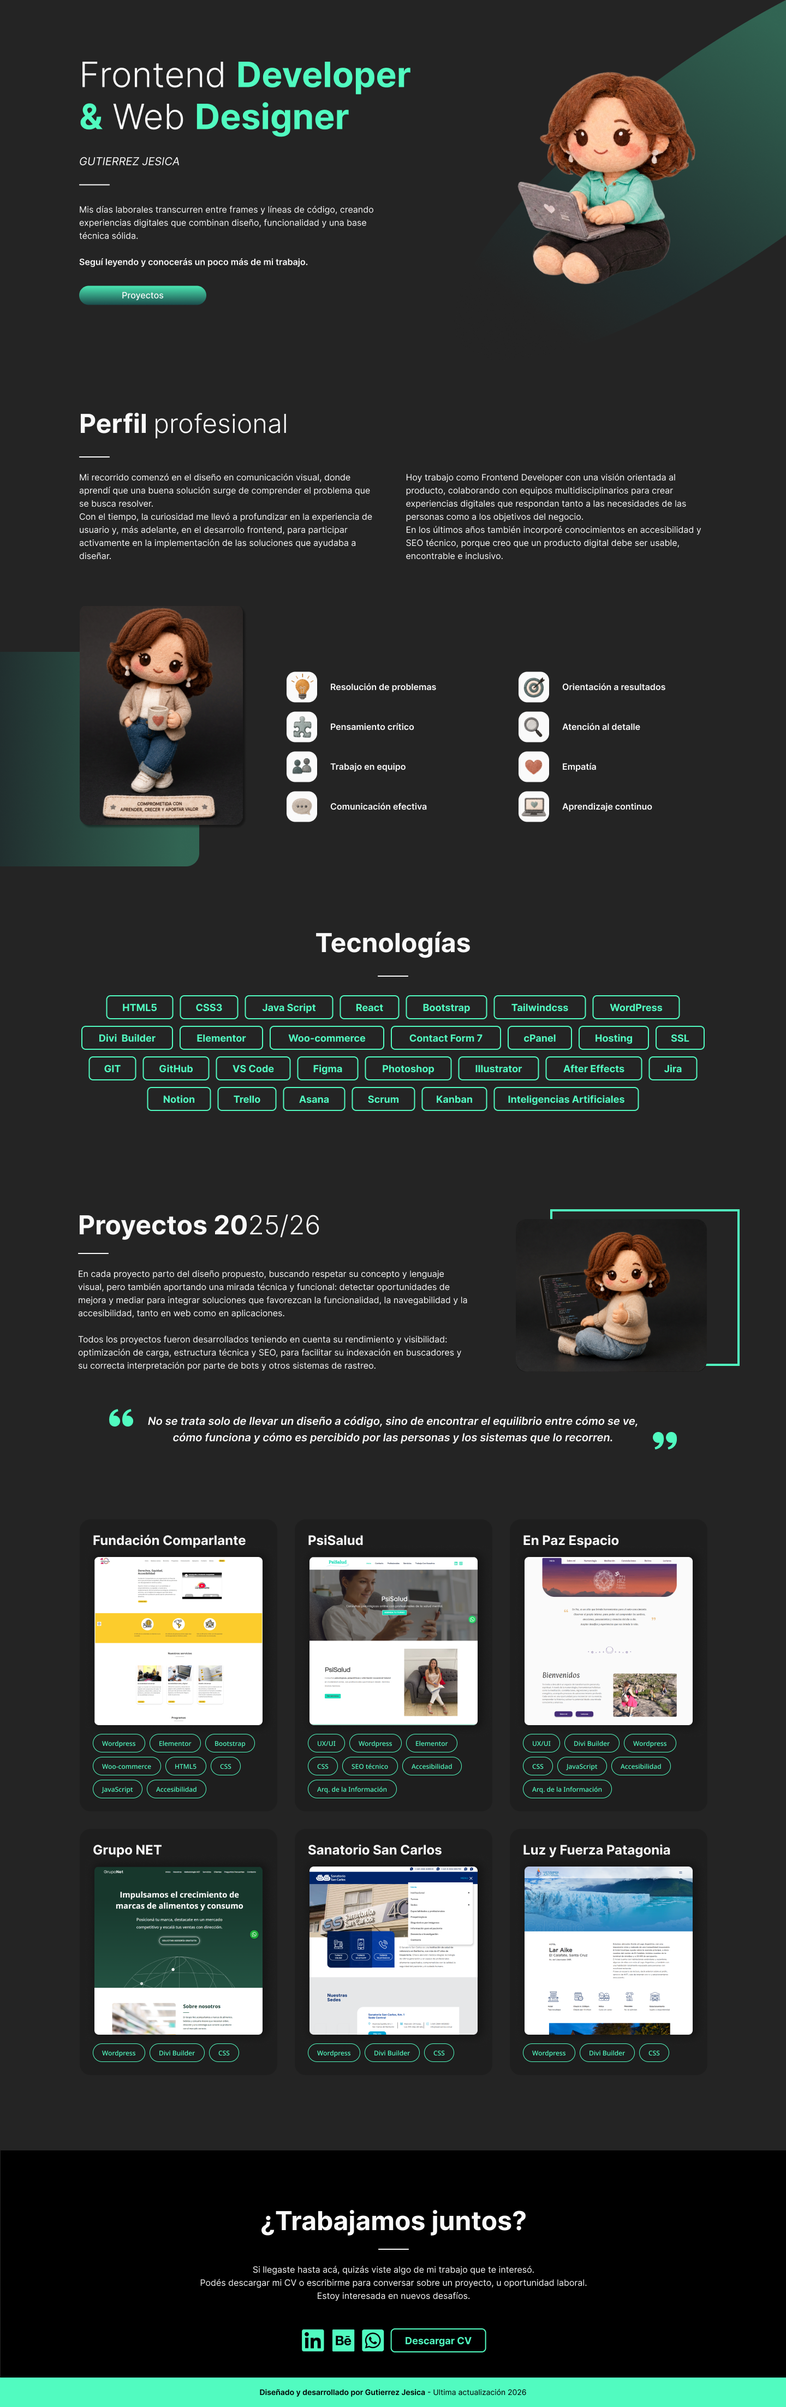
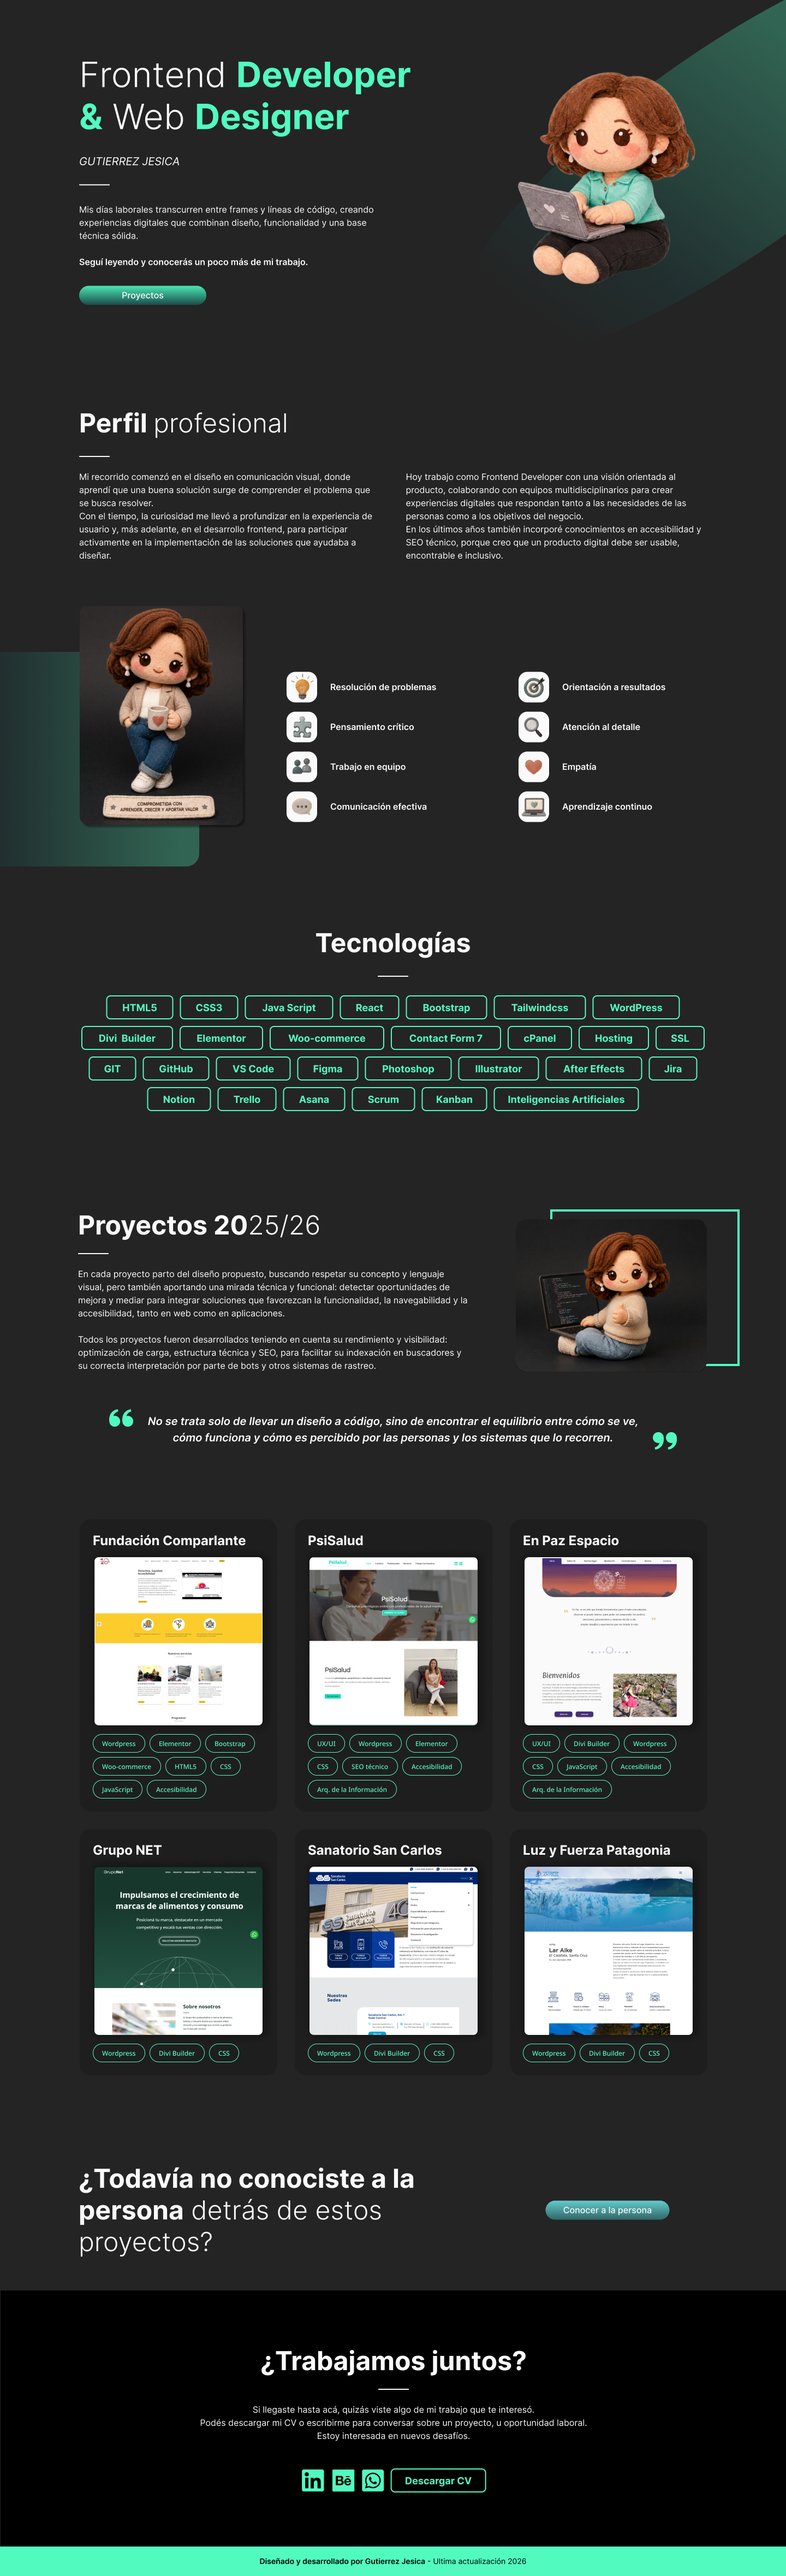
ajustes nuevos

diff --git a/style.css b/style.css
@@ -633,7 +633,7 @@ body {
 }
 
 .profesional-page {
-  --profesional-grid-width: min(100%, 1050px);
+  --profesional-grid-width: min(100%, 1120px);
   background: #242424;
 }
 
@@ -646,7 +646,7 @@ body {
 
 .profesional-hero {
   position: relative;
-  width: 100%;
+  width: var(--profesional-grid-width);
   min-height: 656px;
   margin: 0 auto;
   display: grid;
@@ -654,7 +654,7 @@ body {
   align-items: center;
   column-gap: 36px;
   overflow: hidden;
-  padding: 80px 120px;
+  padding: 80px 24px;
 }
 
 .profesional-hero__background {
@@ -1025,7 +1025,7 @@ body {
 
 .profesional-quote blockquote {
   position: relative;
-  width: min(100%, 1050px);
+  width: var(--profesional-grid-width);
   margin: 0 auto;
   padding: 0 70px;
 }
@@ -1143,9 +1143,11 @@ body {
   grid-template-columns: minmax(0, 2fr) minmax(180px, 1fr);
   align-items: center;
   column-gap: 48px;
+  width: var(--profesional-grid-width);
   min-height: 260px;
+  margin: 0 auto;
   background: #242424;
-  padding: 60px max(24px, calc((100% - 1050px) / 2)) 100px;
+  padding: 60px 24px 100px;
 }
 
 .profesional-persona-invite__content {
@@ -1201,11 +1203,13 @@ body {
 }
 
 .profesional-contact {
+  width: var(--profesional-grid-width);
   min-height: 500px;
   display: flex;
   flex-direction: column;
   align-items: center;
   justify-content: center;
+  margin: 0 auto;
   background: #000000;
   padding: 90px 24px 90px;
   text-align: center;
